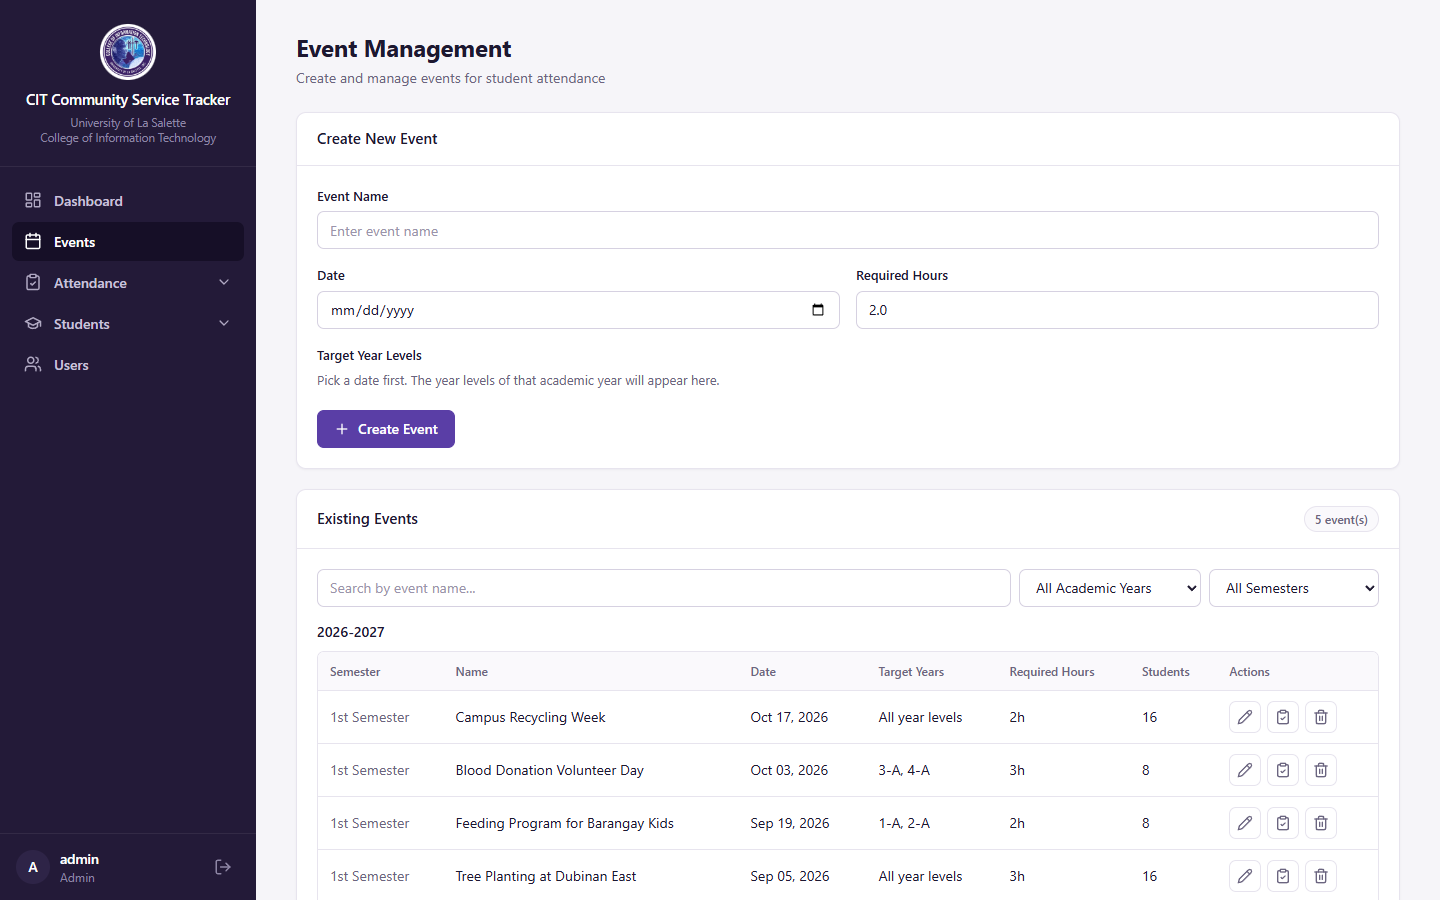
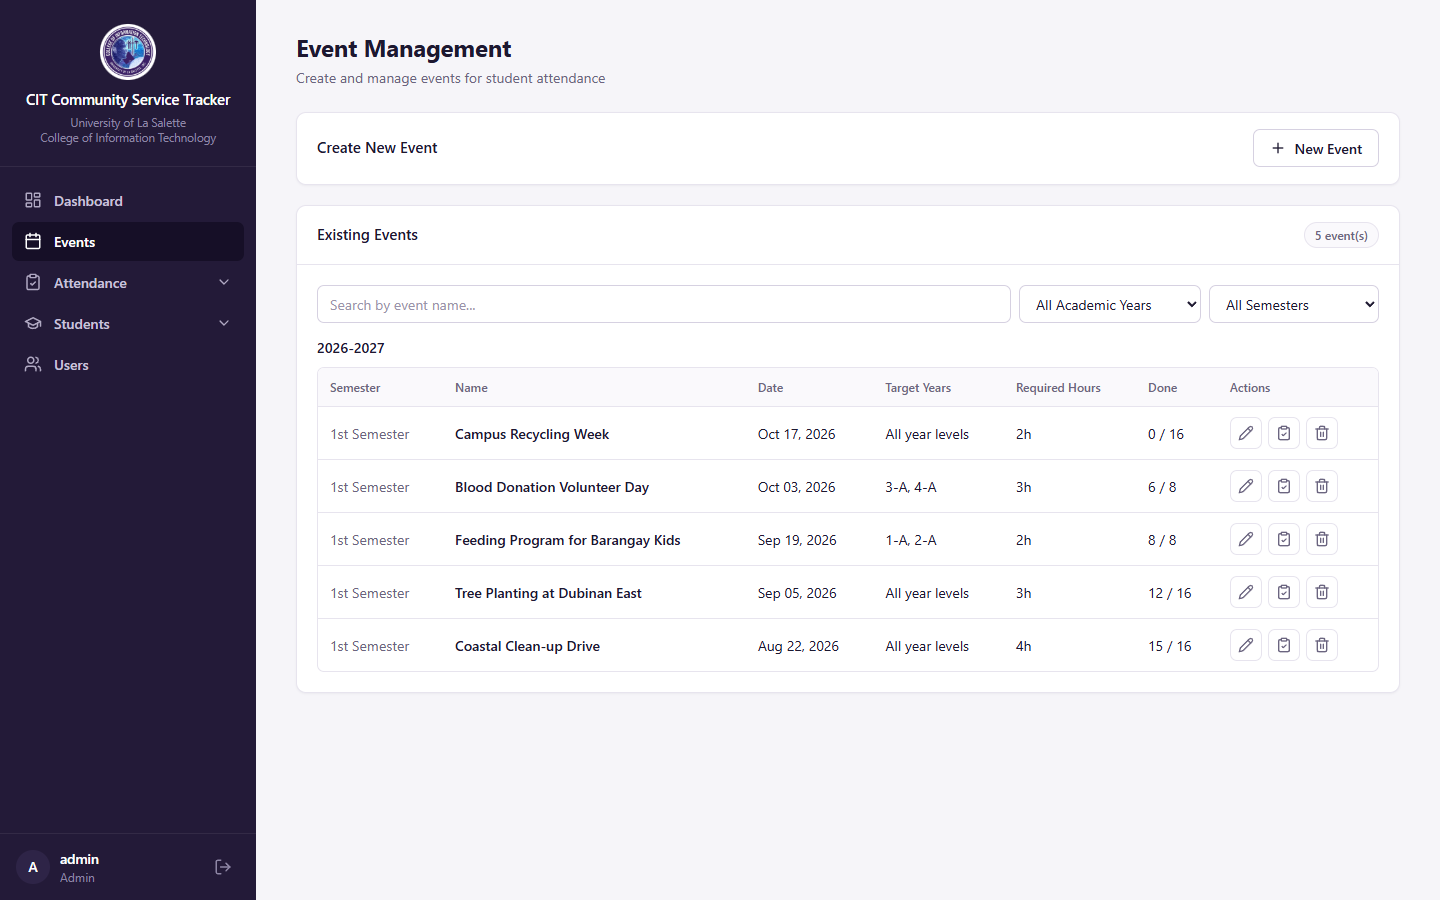
Document the faster attendance flow and retake the screenshots

diff --git a/README.md b/README.md
@@ -5,7 +5,7 @@
 <h1 align="center">CIT Community Service Tracker</h1>
 
 <p align="center">
-  <img src="https://img.shields.io/badge/version-0.2.1-5A3EA6?style=flat-square" alt="version">
+  <img src="https://img.shields.io/badge/version-0.3.0-5A3EA6?style=flat-square" alt="version">
   <img src="https://img.shields.io/badge/status-complete-5A3EA6?style=flat-square" alt="status">
   <img src="https://img.shields.io/badge/python-3.12%2B-3776AB?style=flat-square&logo=python&logoColor=white" alt="python">
   <img src="https://img.shields.io/badge/Flask-2.3-000000?style=flat-square&logo=flask&logoColor=white" alt="Flask">
@@ -22,7 +22,7 @@
 
 The CIT Community Service Tracker is a Flask web app for the University of La Salette College of Information Technology. Officers record which students signed in and out of community service events, and the app tracks the service hours each student still owes per semester.
 
-> **Current version: v0.2.1** — documentation update (development team, security policy, badges). Built on v0.2.0: redesigned interface (calmer sidebar, aligned attendance table with pinned headers, consistent pages, phone layout) and uv for setup. See the [Release Notes](https://github.com/nncast/flask-community-service-tracker/releases) for the full version history.
+> **Current version: v0.3.0** — faster attendance: type or scan a student ID and press Enter to sign them in (again to sign them out), every tick saves right away with no Save button, filters for who hasn't signed in yet, and one button to sign out everyone still there at the end. Events open their sheet from the dashboard or by name, show how many students are done, and default to today's date; students can be promoted together at year end. Built on v0.2.1: documentation update (development team, security policy, badges). Built on v0.2.0: redesigned interface (calmer sidebar, aligned attendance table with pinned headers, consistent pages, phone layout) and uv for setup. See the [Release Notes](https://github.com/nncast/flask-community-service-tracker/releases) for the full version history.
 
 <p align="center">
   <img src="docs/screenshots/dashboard.png" width="49%" alt="Dashboard: students, events, upcoming events and recent attendance changes">
@@ -49,6 +49,10 @@ Each event has a number of **required hours**. Every student in the event's targ
 | Yes | No | half |
 | No | Yes | half |
 | No | No | full |
+
+## Taking attendance
+
+Open the event from the **Dashboard** (today's events are marked) or click its name on **Events**. Type or scan a student ID, or type enough of a name to leave one student, and press **Enter**: the first time signs them in, the second signs them out. Ticking a box works too. Every change is saved the moment it is made, and **Not signed in / Halfway / Done** show who is left. When the event ends, **Sign out everyone still here** signs out every student who signed in.
 
 A student's **Total CS Hours** is the sum for the selected academic year or semester, and every change is logged in Attendance History.
 
